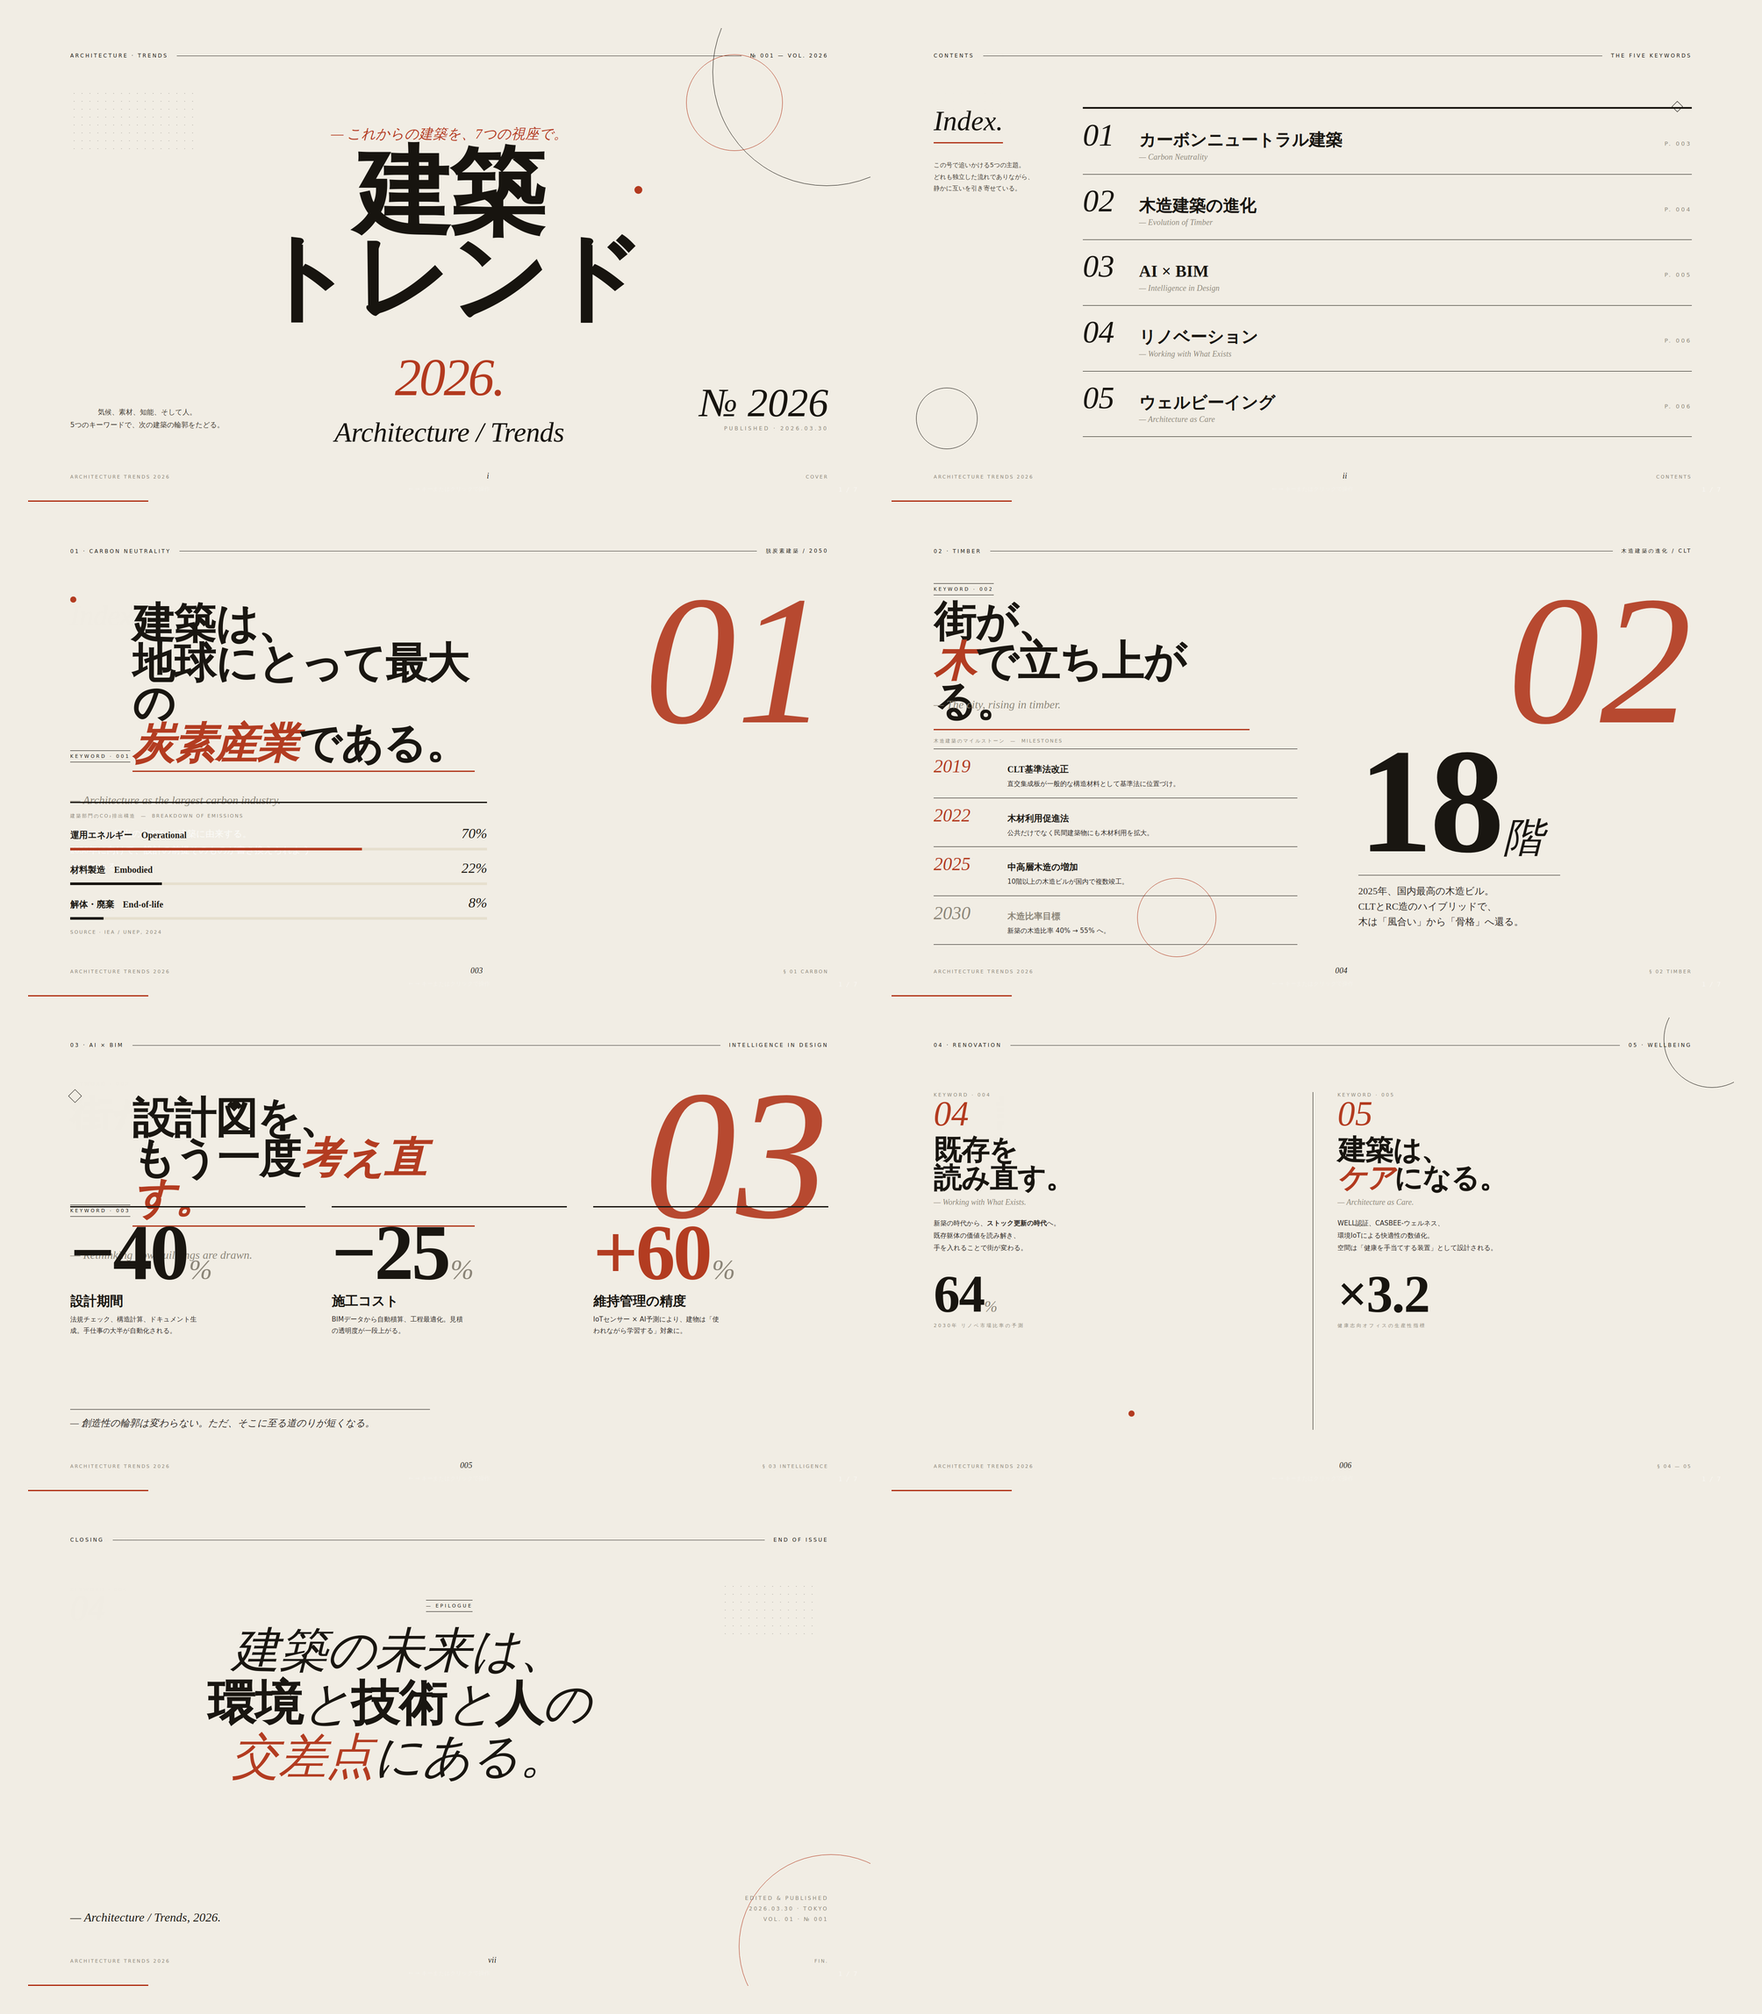
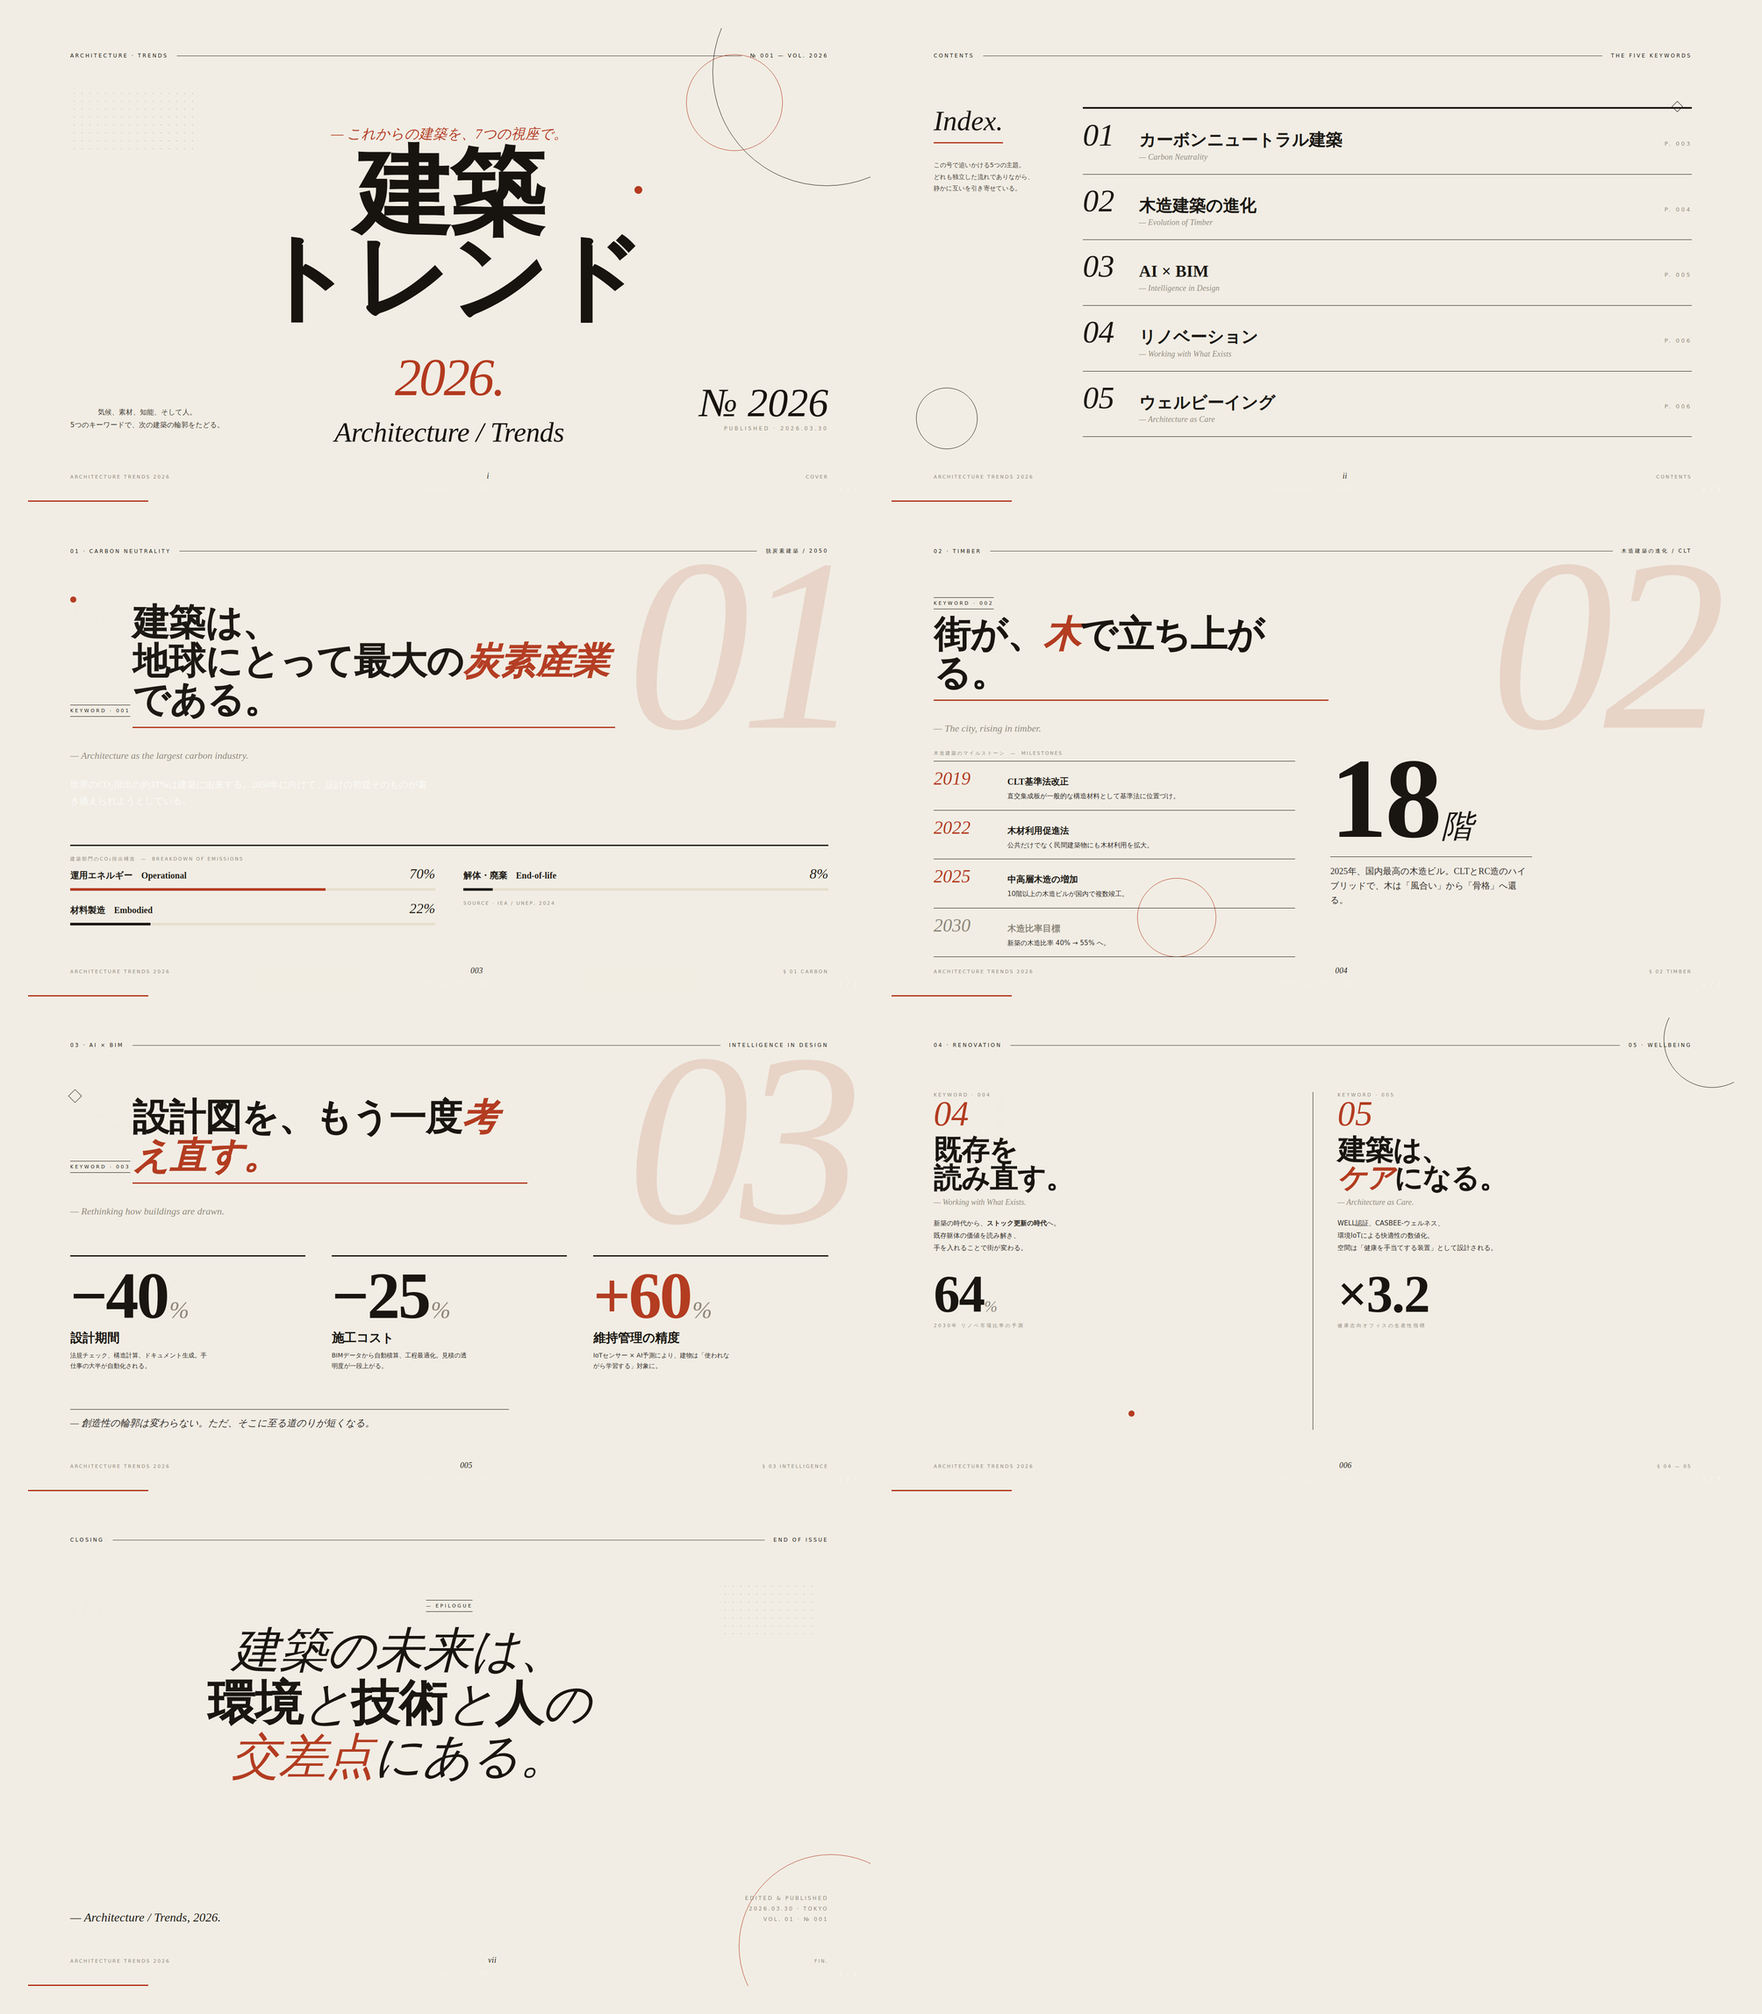
巨大セクション番号をウォーターマーク化し、本文との重なりを解消
- 01/02/03 を opacity 0.14 のペール背景に変更、z-index で本文を前面に
- .s-carbon/.s-wood/.s-ai の body を grid レイアウトに統一
- 本文の max-width と font-size を微調整して可読性を確保
- プレビュー PNG 7枚と all-slides.png を更新

diff --git a/slides/architecture2026.html b/slides/architecture2026.html
@@ -159,29 +159,36 @@
     .toc .row:first-child{border-top:3px solid var(--ink);}
 
     /* ------- Sectional feature slides ------- */
-    .feature .body{position:absolute;left:96px;right:96px;top:170px;bottom:140px;}
+    .feature .body{position:absolute;left:96px;right:96px;top:170px;bottom:140px;z-index:2;}
+    /* Giant section number sits as a decorative watermark BEHIND content */
     .feature .numtag{
-      position:absolute;right:96px;top:150px;
+      position:absolute;right:40px;top:60px;
       font-family:var(--font-serif);font-style:italic;font-weight:400;
-      font-size:420px;line-height:0.78;color:var(--accent);opacity:0.92;
-      pointer-events:none;
+      font-size:560px;line-height:0.78;color:var(--accent);
+      opacity:0.14;                    /* watermark, not foreground */
+      pointer-events:none;z-index:0;
+      letter-spacing:-0.04em;
     }
     .feature h2.section{
       font-family:var(--font-serif);font-weight:900;
-      font-size:96px;line-height:0.95;color:var(--ink);
-      max-width:780px;letter-spacing:-0.015em;
+      font-size:84px;line-height:1.05;color:var(--ink);
+      max-width:900px;letter-spacing:-0.015em;
     }
     .feature .en{
-      font-family:var(--font-serif);font-style:italic;font-size:26px;color:var(--muted);
+      font-family:var(--font-serif);font-style:italic;font-size:22px;color:var(--muted);
       margin-top:10px;
     }
 
     /* ------- Slide 3 : 01 Carbon ------- */
-    .s-carbon .lede{position:absolute;left:0;top:260px;}
+    .s-carbon .body{display:grid;grid-template-rows:auto auto 1fr;gap:28px;}
+    .s-carbon h2.section{max-width:1100px;}
+    .s-carbon .lede{max-width:820px;margin-top:6px;}
     .s-carbon .infobox{
-      position:absolute;left:0;bottom:0;right:45%;
+      align-self:end;
       border-top:3px solid var(--ink);padding-top:22px;
+      display:grid;grid-template-columns:1fr 1fr;gap:8px 64px;
     }
+    .s-carbon .infobox .cap-full{grid-column:1 / -1;}
     .bar-row{display:grid;grid-template-columns:1fr auto;align-items:baseline;margin-bottom:14px;}
     .bar-row .label{font-family:var(--font-serif);font-size:20px;font-weight:600;color:var(--ink);}
     .bar-row .val{font-family:var(--font-serif);font-style:italic;font-weight:400;font-size:32px;color:var(--ink);}
@@ -190,15 +197,16 @@
     .bar.accent-bar > span{background:var(--accent);}
 
     /* ------- Slide 4 : 02 Wood ------- */
-    .s-wood .left{position:absolute;left:0;top:240px;width:48%;}
-    .s-wood .right{position:absolute;right:0;top:240px;width:44%;}
+    .s-wood .body{display:grid;grid-template-rows:auto 1fr;gap:36px;}
+    .s-wood .top{max-width:900px;}
+    .s-wood .cols{display:grid;grid-template-columns:1fr 1fr;gap:80px;align-items:start;}
     .s-wood .hero{
       font-family:var(--font-serif);font-weight:900;
-      font-size:340px;line-height:0.85;color:var(--ink);letter-spacing:-0.02em;
+      font-size:260px;line-height:0.85;color:var(--ink);letter-spacing:-0.02em;
     }
-    .s-wood .hero .unit{font-size:92px;font-weight:400;font-style:italic;vertical-align:baseline;margin-left:4px;}
+    .s-wood .hero .unit{font-size:72px;font-weight:400;font-style:italic;vertical-align:baseline;margin-left:4px;}
     .s-wood .hero-cap{
-      margin-top:24px;font-family:var(--font-serif);font-size:22px;line-height:1.6;color:#2b251e;max-width:460px;border-top:1px solid var(--ink);padding-top:18px;
+      margin-top:22px;font-family:var(--font-serif);font-size:20px;line-height:1.65;color:#2b251e;max-width:460px;border-top:1px solid var(--ink);padding-top:16px;
     }
     .tl{list-style:none;margin-top:6px;}
     .tl li{
@@ -212,23 +220,21 @@
     .tl li.future .y, .tl li.future .txt b{color:var(--muted);}
 
     /* ------- Slide 5 : 03 AI × BIM ------- */
-    .s-ai .row{
-      position:absolute;left:0;right:0;top:260px;
-      display:grid;grid-template-columns:1fr 1fr 1fr;gap:60px;
-    }
+    .s-ai .body{display:grid;grid-template-rows:auto 1fr auto;gap:36px;}
+    .s-ai .top{max-width:1100px;}
+    .s-ai .row{display:grid;grid-template-columns:1fr 1fr 1fr;gap:60px;align-self:center;}
     .stat{border-top:3px solid var(--ink);padding-top:22px;}
     .stat .n{
-      font-family:var(--font-serif);font-weight:900;font-size:180px;line-height:0.9;letter-spacing:-0.03em;color:var(--ink);
+      font-family:var(--font-serif);font-weight:900;font-size:150px;line-height:0.9;letter-spacing:-0.03em;color:var(--ink);
     }
-    .stat .n .u{font-size:64px;font-weight:400;font-style:italic;color:var(--muted);margin-left:4px;}
+    .stat .n .u{font-size:54px;font-weight:400;font-style:italic;color:var(--muted);margin-left:4px;}
     .stat .n.accent{color:var(--accent);}
     .stat h3{
-      font-family:var(--font-serif);font-weight:800;font-size:30px;margin-top:10px;color:var(--ink);
+      font-family:var(--font-serif);font-weight:800;font-size:28px;margin-top:10px;color:var(--ink);
     }
-    .stat p{font-family:var(--font-sans);font-size:15px;line-height:1.7;color:#2b251e;margin-top:8px;max-width:300px;}
+    .stat p{font-family:var(--font-sans);font-size:14px;line-height:1.75;color:#2b251e;margin-top:8px;max-width:320px;}
     .s-ai .foot{
-      position:absolute;left:0;right:0;bottom:0;
-      font-family:var(--font-serif);font-style:italic;font-size:22px;color:#2b251e;max-width:820px;
+      font-family:var(--font-serif);font-style:italic;font-size:22px;color:#2b251e;max-width:1000px;
       border-top:1px solid var(--ink);padding-top:16px;
     }
 
@@ -398,24 +404,29 @@
       <div class="disc" style="width:14px;height:14px;left:96px;top:168px;"></div>
 
       <div class="body">
-        <div class="kicker">Keyword · 001</div>
-        <h2 class="section" style="margin-top:14px;">建築は、<br>地球にとって最大の<br><span class="accent italic">炭素産業</span>である。</h2>
-        <div class="en">— Architecture as the largest carbon industry.</div>
+        <div>
+          <div class="kicker">Keyword · 001</div>
+          <h2 class="section" style="margin-top:14px;">建築は、<br>地球にとって最大の<span class="accent italic">炭素産業</span>である。</h2>
+          <div class="en">— Architecture as the largest carbon industry.</div>
+        </div>
 
-        <p class="lede" style="position:absolute;left:0;top:520px;max-width:560px;">
-          世界のCO₂排出の約<b>37%</b>は建築に由来する。<br>
-          2050年に向けて、設計の前提そのものが書き換えられようとしている。
+        <p class="lede">
+          世界のCO₂排出の約<b>37%</b>は建築に由来する。2050年に向けて、設計の前提そのものが書き換えられようとしている。
         </p>
 
         <div class="infobox">
-          <div class="caption" style="margin-bottom:14px;">建築部門のCO₂排出構造 &nbsp;—&nbsp; Breakdown of emissions</div>
-          <div class="bar-row"><span class="label">運用エネルギー　Operational</span><span class="val italic">70%</span></div>
-          <div class="bar accent-bar"><span style="width:70%"></span></div>
-          <div class="bar-row"><span class="label">材料製造　Embodied</span><span class="val italic">22%</span></div>
-          <div class="bar"><span style="width:22%"></span></div>
-          <div class="bar-row"><span class="label">解体・廃棄　End-of-life</span><span class="val italic">8%</span></div>
-          <div class="bar"><span style="width:8%"></span></div>
-          <div class="caption" style="margin-top:6px;">Source · IEA / UNEP, 2024</div>
+          <div class="caption cap-full">建築部門のCO₂排出構造 &nbsp;—&nbsp; Breakdown of emissions</div>
+          <div>
+            <div class="bar-row"><span class="label">運用エネルギー　Operational</span><span class="val italic">70%</span></div>
+            <div class="bar accent-bar"><span style="width:70%"></span></div>
+            <div class="bar-row"><span class="label">材料製造　Embodied</span><span class="val italic">22%</span></div>
+            <div class="bar"><span style="width:22%"></span></div>
+          </div>
+          <div>
+            <div class="bar-row"><span class="label">解体・廃棄　End-of-life</span><span class="val italic">8%</span></div>
+            <div class="bar"><span style="width:8%"></span></div>
+            <div class="caption" style="margin-top:4px;">Source · IEA / UNEP, 2024</div>
+          </div>
         </div>
       </div>
 
@@ -440,26 +451,28 @@
       <div class="ring" style="width:180px;height:180px;left:560px;bottom:90px;border-color:var(--accent);"></div>
 
       <div class="body">
-        <div class="kicker" style="position:absolute;left:0;top:-32px;">Keyword · 002</div>
-        <h2 class="section" style="position:absolute;left:0;top:10px;max-width:720px;">街が、<br><span class="accent italic">木</span>で立ち上がる。</h2>
-        <div class="en" style="position:absolute;left:0;top:220px;">— The city, rising in timber.</div>
-
-        <div class="left" style="top:320px;">
-          <div class="caption" style="margin-bottom:10px;">木造建築のマイルストーン &nbsp;—&nbsp; Milestones</div>
-          <ul class="tl">
-            <li><div class="y italic">2019</div><div class="txt"><b>CLT基準法改正</b>直交集成板が一般的な構造材料として基準法に位置づけ。</div></li>
-            <li><div class="y italic">2022</div><div class="txt"><b>木材利用促進法</b>公共だけでなく民間建築物にも木材利用を拡大。</div></li>
-            <li><div class="y italic">2025</div><div class="txt"><b>中高層木造の増加</b>10階以上の木造ビルが国内で複数竣工。</div></li>
-            <li class="future"><div class="y italic">2030</div><div class="txt"><b>木造比率目標</b>新築の木造比率 40% → 55% へ。</div></li>
-          </ul>
+        <div class="top">
+          <div class="kicker">Keyword · 002</div>
+          <h2 class="section" style="margin-top:14px;">街が、<span class="accent italic">木</span>で立ち上がる。</h2>
+          <div class="en">— The city, rising in timber.</div>
         </div>
 
-        <div class="right" style="top:320px;">
-          <div class="hero">18<span class="unit italic">階</span></div>
-          <div class="hero-cap">
-            2025年、国内最高の木造ビル。<br>
-            CLTとRC造のハイブリッドで、<br>
-            木は「風合い」から「骨格」へ還る。
+        <div class="cols">
+          <div>
+            <div class="caption" style="margin-bottom:10px;">木造建築のマイルストーン &nbsp;—&nbsp; Milestones</div>
+            <ul class="tl">
+              <li><div class="y italic">2019</div><div class="txt"><b>CLT基準法改正</b>直交集成板が一般的な構造材料として基準法に位置づけ。</div></li>
+              <li><div class="y italic">2022</div><div class="txt"><b>木材利用促進法</b>公共だけでなく民間建築物にも木材利用を拡大。</div></li>
+              <li><div class="y italic">2025</div><div class="txt"><b>中高層木造の増加</b>10階以上の木造ビルが国内で複数竣工。</div></li>
+              <li class="future"><div class="y italic">2030</div><div class="txt"><b>木造比率目標</b>新築の木造比率 40% → 55% へ。</div></li>
+            </ul>
+          </div>
+
+          <div>
+            <div class="hero">18<span class="unit italic">階</span></div>
+            <div class="hero-cap">
+              2025年、国内最高の木造ビル。CLTとRC造のハイブリッドで、木は「風合い」から「骨格」へ還る。
+            </div>
           </div>
         </div>
       </div>
@@ -485,9 +498,11 @@
       <div class="square" style="width:22px;height:22px;left:96px;top:168px;transform:rotate(45deg);"></div>
 
       <div class="body">
-        <div class="kicker">Keyword · 003</div>
-        <h2 class="section" style="margin-top:14px;">設計図を、<br>もう一度<span class="italic accent">考え直す。</span></h2>
-        <div class="en">— Rethinking how buildings are drawn.</div>
+        <div class="top">
+          <div class="kicker">Keyword · 003</div>
+          <h2 class="section" style="margin-top:14px;">設計図を、もう一度<span class="italic accent">考え直す。</span></h2>
+          <div class="en">— Rethinking how buildings are drawn.</div>
+        </div>
 
         <div class="row">
           <div class="stat">
